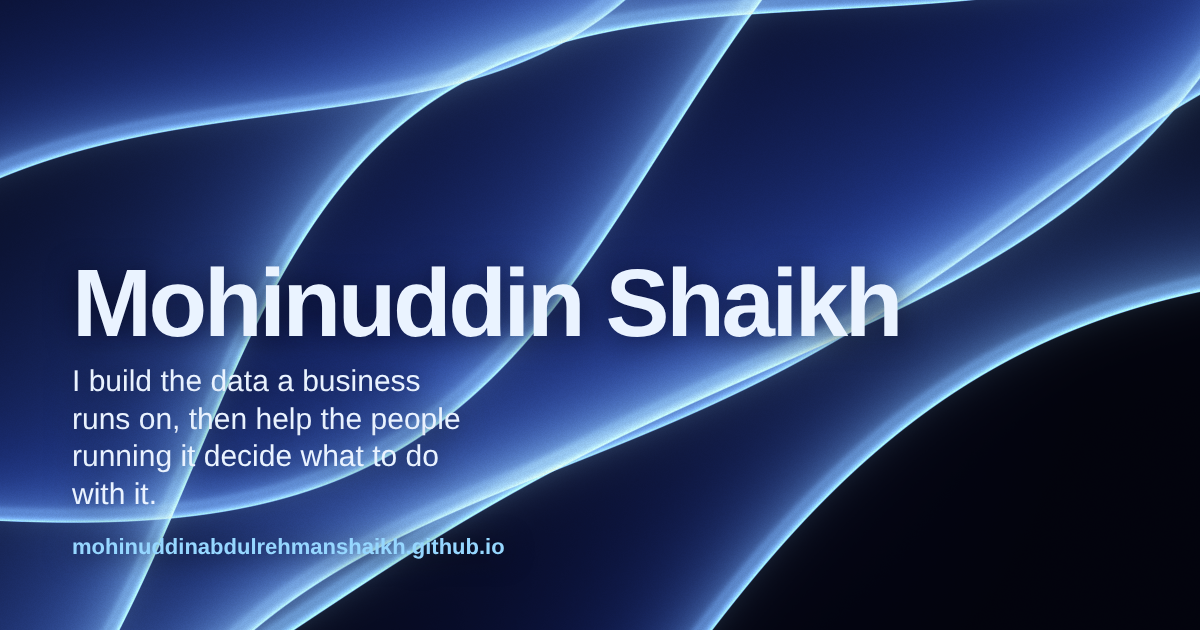
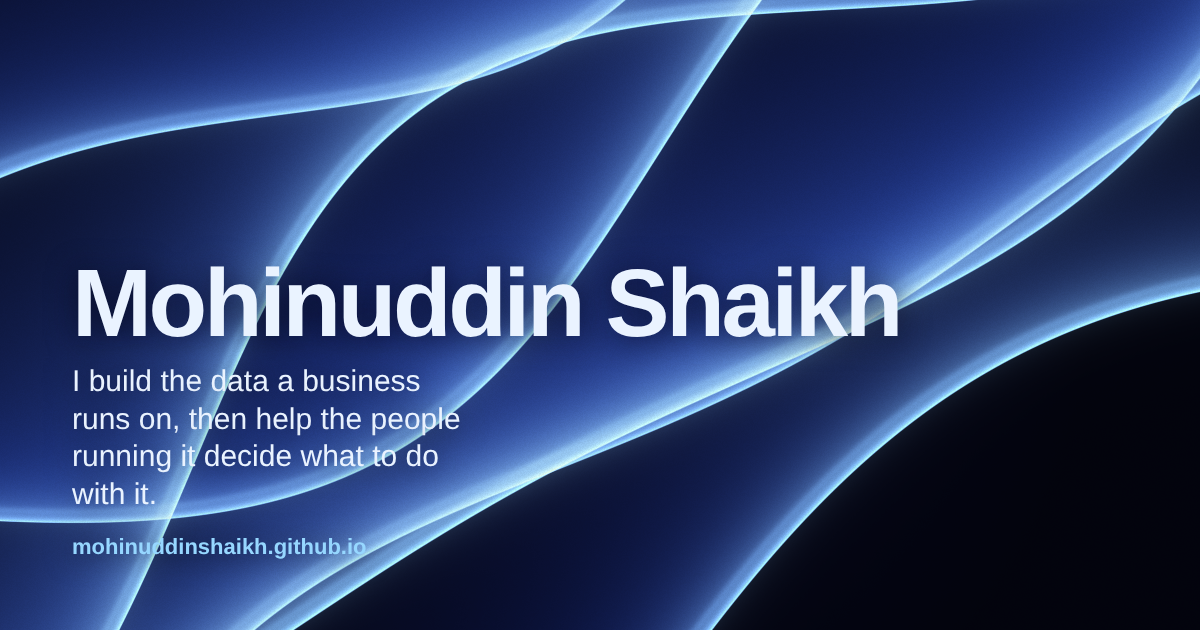
Point links at the MohinuddinShaikh account
Claude-Session: https://claude.ai/code/session_01QiidqhMBwyKRxyxANa4dKk

Changed region(s): [[0.185, 0.8444, 0.4317, 0.9048]]

diff --git a/index.html b/index.html
@@ -5,12 +5,12 @@
 <meta name="viewport" content="width=device-width, initial-scale=1">
 <title>Mohinuddin Shaikh Portfolio</title>
 <meta name="description" content="Mohinuddin Shaikh: MS Business Analytics and Information Management student at Purdue. Data pipelines, analytics and pricing work in fintech, with the people side of the decisions.">
-<link rel="canonical" href="https://mohinuddinabdulrehmanshaikh.github.io/">
+<link rel="canonical" href="https://mohinuddinshaikh.github.io/">
 <meta property="og:type" content="website">
-<meta property="og:url" content="https://mohinuddinabdulrehmanshaikh.github.io/">
+<meta property="og:url" content="https://mohinuddinshaikh.github.io/">
 <meta property="og:title" content="Mohinuddin Shaikh">
 <meta property="og:description" content="I build the data a business runs on, then help the people running it decide what to do with it.">
-<meta property="og:image" content="https://mohinuddinabdulrehmanshaikh.github.io/og-image.png">
+<meta property="og:image" content="https://mohinuddinshaikh.github.io/og-image.png">
 <meta property="og:image:width" content="1200">
 <meta property="og:image:height" content="630">
 <meta property="og:image:alt" content="Mohinuddin Shaikh, portfolio">
@@ -654,7 +654,7 @@ footer{font-family:var(--display);font-size:.875rem;color:var(--faint);padding:2
      sum:"A concept for booking a cab without a central platform in the middle, built on Next.js with ethers.js and Mapbox GL."},
     {ctx:"Personal project, 2022", title:"Sales dashboard", tags:"React · Syncfusion · Tailwind CSS",
      sum:"A React dashboard that brings charts and data tables onto one screen, built with Syncfusion components and Tailwind CSS."},
-    {ctx:"Personal project, 2020", title:"Quiz application", tags:"Java Swing · SQL · JDBC", href:"https://github.com/MohinuddinAbdulRehmanShaikh/QuizApplication",
+    {ctx:"Personal project, 2020", title:"Quiz application", tags:"Java Swing · SQL · JDBC", href:"https://github.com/MohinuddinShaikh/QuizApplication",
      sum:"A desktop quiz app. Admins manage the questions and see every student's marks; students take a timed exam and see their marks at the end."}
   ];
   // Geometry, in card heights (from the component): step between cards on the drum, drum radius,
@@ -950,7 +950,7 @@ footer{font-family:var(--display);font-size:.875rem;color:var(--faint);padding:2
 // Contact cards, after the contact-cards component: copy the email in place, and a row of
 // icons whose cards cross-fade in the direction you move while the container morphs between them.
 (function(){
-  const EMAIL = "zs416301@gmail.com", GH = "MohinuddinAbdulRehmanShaikh";
+  const EMAIL = "zs416301@gmail.com", GH = "MohinuddinShaikh";
   const LEVELS = ["rgba(150,215,255,.1)","rgba(150,215,255,.3)","rgba(150,215,255,.5)","rgba(150,215,255,.72)","#96d7ff"];
   const ICON = {
     gh:'<svg viewBox="0 0 24 24" fill="currentColor" aria-hidden="true"><path d="M12 .5a12 12 0 0 0-3.8 23.4c.6.1.8-.3.8-.6v-2c-3.3.7-4-1.6-4-1.6-.6-1.4-1.4-1.8-1.4-1.8-1-.7.1-.7.1-.7 1.2.1 1.8 1.2 1.8 1.2 1 1.8 2.8 1.3 3.5 1 .1-.8.4-1.3.7-1.6-2.7-.3-5.5-1.3-5.5-5.9 0-1.3.5-2.4 1.2-3.2-.1-.3-.5-1.5.1-3.2 0 0 1-.3 3.3 1.2a11.5 11.5 0 0 1 6 0C17.3 4.7 18.3 5 18.3 5c.6 1.7.2 2.9.1 3.2.8.8 1.2 1.9 1.2 3.2 0 4.6-2.8 5.6-5.5 5.9.4.4.8 1.1.8 2.2v3.3c0 .3.2.7.8.6A12 12 0 0 0 12 .5Z"/></svg>',

diff --git a/README.md b/README.md
@@ -1,6 +1,6 @@
 # Mohinuddin Shaikh
 
-Personal portfolio: https://mohinuddinabdulrehmanshaikh.github.io
+Personal portfolio: https://mohinuddinshaikh.github.io
 
 A single self-contained page (`index.html`): HTML, CSS and plain JavaScript, no build step. GitHub Pages serves it straight from the `main` branch.
 
